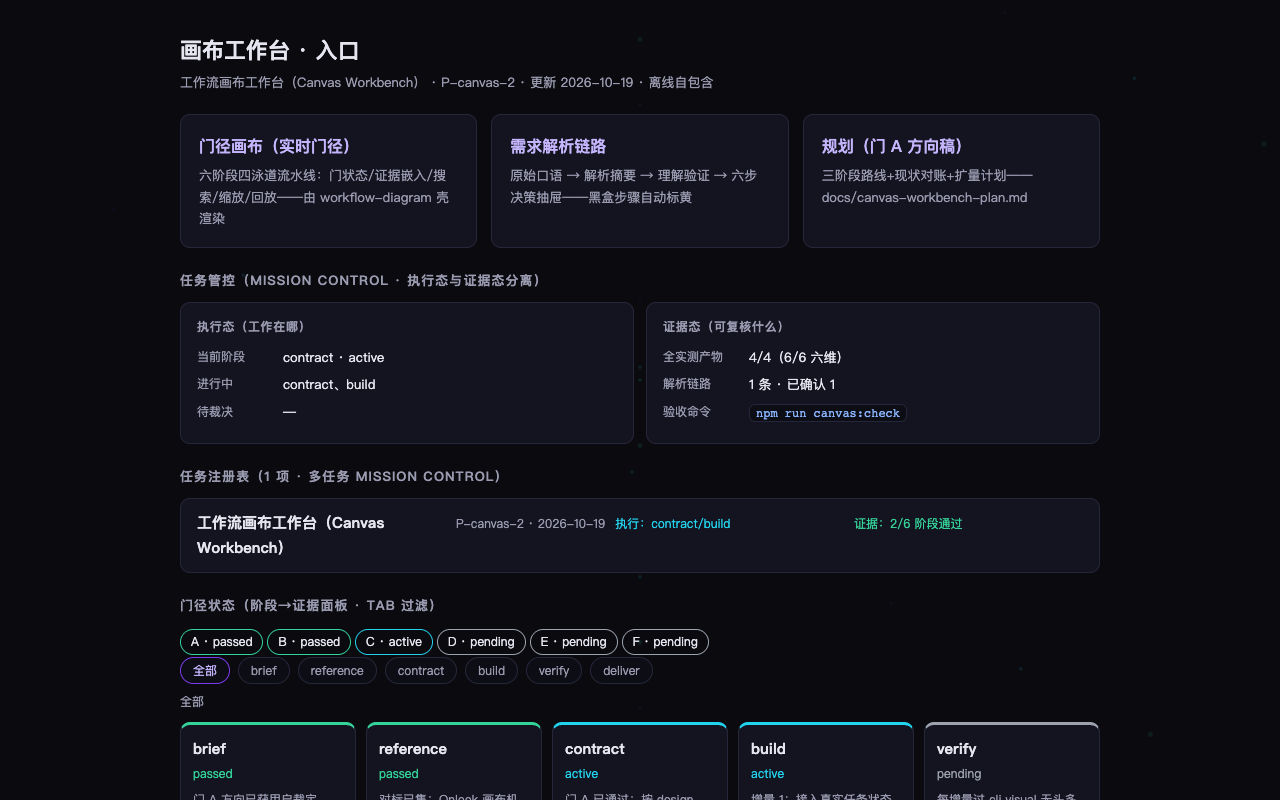
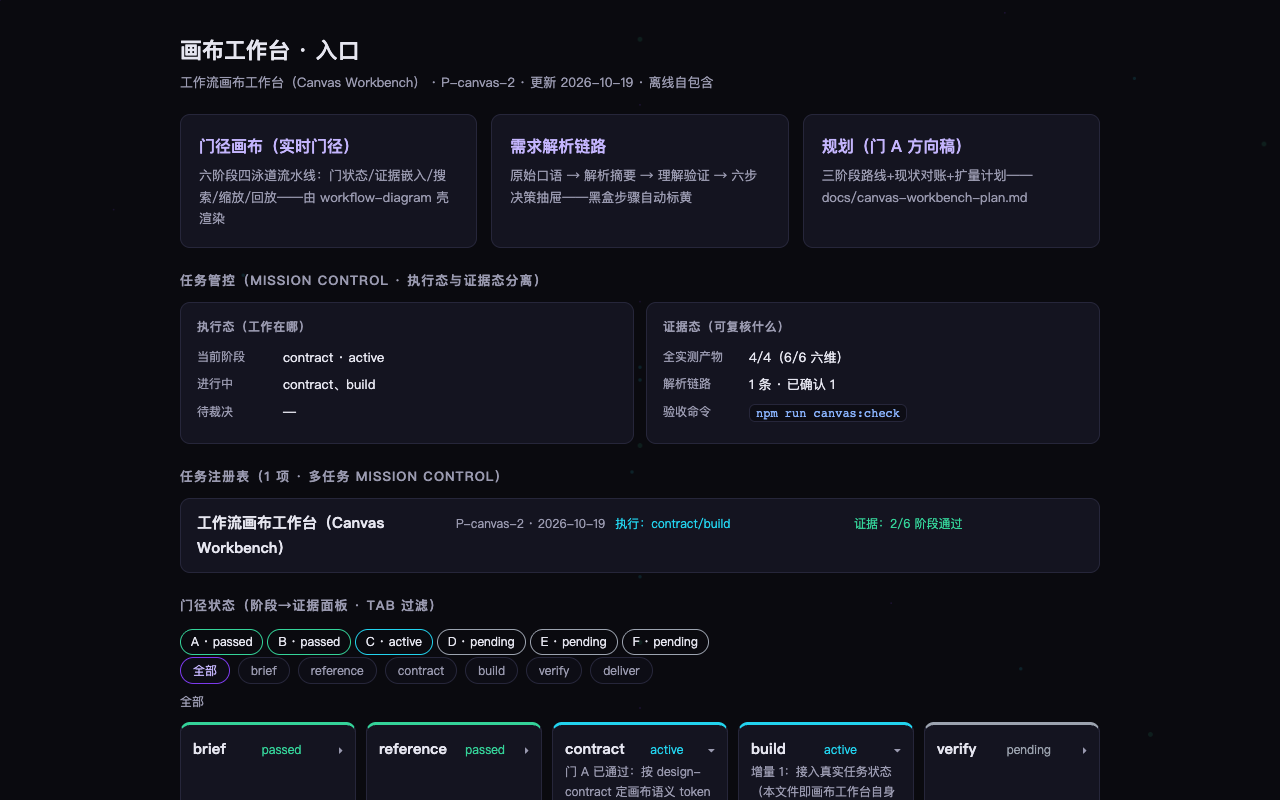
feat(canvas): 增量 73——门径阶段卡抽屉化（details 原生键盘可达，active 默认展开）+ 学循环 101 B 站需求信号 sweep·第八次（百万级原型需求+skill 生态进 B 站词表）
- 学循环 101（bilibili 搜索页一手实看，隔 12 天）：'灵光 AI 一键生成交互
  页面' 171.7 万播放（同题两版重发）=百万级原型需求体量；'UI UX Pro Max
  Skill'（1.9 万播放）进 B 站标题=skill 生态大众化（97 轮 trending 侧
  hallmark/impeccable 跨平台互证）；检索词与供给错位如实记录——按痛点
  检索返回能力宣传，痛点诉说沉淀在评论区层不可采样（下次 sweep 校准
  入口：评论区/弹幕或'翻车'词系）；第四层连续 31 轮无存活对标者
- 增量 73：div.stage→details.stage 抽屉化（evidence/notes 收进抽屉，
  active 阶段默认展开；summary flex 重排+▸ 旋转指示；native details=
  键盘可达零 JS 成本，与产物墙 .art 模式统一）
- DOM 四态实测：active 默认开/点 toggle/Tab+Enter 键盘展开/过滤与抽屉
  共存；键盘断言如实更新 25/28→30/34（+6 summary）
- evals +2（bilibili-painpoint-comment-layer/
  skill-ecosystem-mass-market-terminology）语料 222→224；口径五处同笔
  （goal/eval-report/paper/提交文档第十二次/quality-monitor）
- KPI4 第三十三条：门径抽屉（证据收纳+原生键盘可达）vs B 站'一键生成'
  内容（能力宣传无验收口径），us 6/6 vs them 1/1
- 三连全绿：ci/verify 0 错/test 133/133；canvas:check 4 页全绿；
  wall-reconcile 8/8（canvas-index 键盘 30/34 同笔确认）

diff --git a/showcase/products/public/canvas/canvas-index.html b/showcase/products/public/canvas/canvas-index.html
@@ -20,8 +20,12 @@
   .pill { display:inline-block; border:1px solid var(--line); border-radius:99px; padding:2px 10px; font-size:12px; margin:2px 4px 2px 0; }
   .stages { display:grid; grid-template-columns:repeat(auto-fit,minmax(150px,1fr)); gap:10px; margin-bottom:22px; }
   .stage { background:var(--panel); border:1px solid var(--line); border-top:3px solid var(--c); border-radius:10px; padding:12px; }
+  .stage summary { cursor:pointer; display:flex; justify-content:space-between; align-items:baseline; gap:8px; list-style:none; }
+  .stage summary::-webkit-details-marker { display:none; }
+  .stage summary::after { content:"▸"; color:var(--dim); font-size:11px; transition:transform .15s ease; }
+  .stage[open] summary::after { transform:rotate(90deg); }
   .sid { font-weight:600; }
-  .sst { font-size:12px; margin:2px 0 6px; }
+  .sst { font-size:12px; }
   .snote { color:var(--dim); font-size:12px; }
   .sev { color:var(--dim); font-size:11.5px; margin-top:6px; padding-top:6px; border-top:1px dashed var(--line); overflow-wrap:anywhere; }
   h2.sec { font-size:13px; text-transform:uppercase; letter-spacing:.08em; color:var(--dim); margin:22px 0 10px; }
@@ -180,42 +184,36 @@
     <span class="snote" id="stage-mode">全部</span>
   </div>
   <p class="snote" id="stage-empty" hidden>该阶段无卡片（过滤结果为空）</p>
-  <div class="stages"><div class="stage" style="--c:#34d399" data-stage="brief">
-        <div class="sid">brief</div>
-        <div class="sst" style="color:#34d399">passed</div>
+  <div class="stages"><details class="stage" style="--c:#34d399" data-stage="brief">
+        <summary><span class="sid">brief</span><span class="sst" style="color:#34d399">passed</span></summary>
         <div class="snote">门 A 方向已获用户裁定（2026-10-19）：工作台形态升级+艺术画面明示要求+能力地平线四序列；阶段 4 新增</div>
         <div class="sev">docs/canvas-workbench-plan.md + docs/identity-and-direction.md（工作台形态与能力地平线节）</div>
-      </div>
-<div class="stage" style="--c:#34d399" data-stage="reference">
-        <div class="sid">reference</div>
-        <div class="sst" style="color:#34d399">passed</div>
+      </details>
+<details class="stage" style="--c:#34d399" data-stage="reference">
+        <summary><span class="sid">reference</span><span class="sst" style="color:#34d399">passed</span></summary>
         <div class="snote">对标已集：Onlook 画布机制/bolt 设计系统专题/v0 Agentic+设计系统（学习循环 20-26 轮），第四层定位论证完成</div>
         <div class="sev">docs/competitive-insights/2026-10-11-onlook/insight.md</div>
-      </div>
-<div class="stage" style="--c:#22d3ee" data-stage="contract">
-        <div class="sid">contract</div>
-        <div class="sst" style="color:#22d3ee">active</div>
+      </details>
+<details class="stage" style="--c:#22d3ee" data-stage="contract" open>
+        <summary><span class="sid">contract</span><span class="sst" style="color:#22d3ee">active</span></summary>
         <div class="snote">门 A 已通过：按 design-contract 定画布语义 token 与动效参数（阶段 4 艺术画面升级的契约层）</div>
         
-      </div>
-<div class="stage" style="--c:#22d3ee" data-stage="build">
-        <div class="sid">build</div>
-        <div class="sst" style="color:#22d3ee">active</div>
+      </details>
+<details class="stage" style="--c:#22d3ee" data-stage="build" open>
+        <summary><span class="sid">build</span><span class="sst" style="color:#22d3ee">active</span></summary>
         <div class="snote">增量 1：接入真实任务状态（本文件即画布工作台自身的第一份活数据——吃狗粮）</div>
         <div class="sev">scripts/workflow-diagram/（复用既有画布壳：自包含 HTML/相机/证据嵌入/visual 验收）</div>
-      </div>
-<div class="stage" style="--c:#9ca3af" data-stage="verify">
-        <div class="sid">verify</div>
-        <div class="sst" style="color:#9ca3af">pending</div>
+      </details>
+<details class="stage" style="--c:#9ca3af" data-stage="verify">
+        <summary><span class="sid">verify</span><span class="sst" style="color:#9ca3af">pending</span></summary>
         <div class="snote">每增量过 cli visual 无头多视口回执 + 六维验收</div>
         
-      </div>
-<div class="stage" style="--c:#9ca3af" data-stage="deliver">
-        <div class="sid">deliver</div>
-        <div class="sst" style="color:#9ca3af">pending</div>
+      </details>
+<details class="stage" style="--c:#9ca3af" data-stage="deliver">
+        <summary><span class="sid">deliver</span><span class="sst" style="color:#9ca3af">pending</span></summary>
         <div class="snote">产物入画布产物墙，与对标产物六维并排（KPI4）</div>
         
-      </div></div>
+      </details></div>
   <h2 class="sec">解析链路（1 条）</h2><a class="chain-row" href="chain-canvas-workbench.html">
         <span class="badge" aria-label="解析链路确认状态：用户已比对确认">✓ 已确认</span>
         <span class="t">工作流画布工作台</span>
@@ -392,8 +390,8 @@
         <span class="snote" id="audit-mode">全部</span>
       </div>
       <p class="snote" id="audit-empty" hidden>该域无发现（过滤结果为空）</p>
-       <div class="audit-rows"><div class="audit-row" data-domain="knowledge"><span class="badge" aria-label="发现 kb-integrity 判定 已确认">✓ confirmed</span><span class="audit-id">kb-integrity</span><span class="audit-ev">docs/knowledge-base/index.json: 12 cards, layers={&quot;composition&quot;:4,&quot;motion&quot;:4,&quot;order&quot;:4}</span></div><div class="audit-row" data-domain="registry"><span class="badge" aria-label="发现 caps-integrity 判定 已确认">✓ confirmed</span><span class="audit-id">caps-integrity</span><span class="audit-ev">canvas/capabilities.json: 11 entries, statuses valid=true</span></div><div class="audit-row" data-domain="evidence"><span class="badge" aria-label="发现 regressions-append-only 判定 已确认">✓ confirmed</span><span class="audit-id">regressions-append-only</span><span class="audit-ev">canvas/regressions.json: 6 entries, all carry id/date/lesson=true</span></div><div class="audit-row" data-domain="video"><span class="badge" aria-label="发现 sfx-hero 判定 已确认">✓ confirmed</span><span class="audit-id">sfx-hero</span><span class="audit-ev">scripts/sfx-check.mjs: 36 items, issues=[]</span></div><div class="audit-row" data-domain="video"><span class="badge" aria-label="发现 sfx-60 判定 已确认">✓ confirmed</span><span class="audit-id">sfx-60</span><span class="audit-ev">scripts/sfx-check.mjs: 18 items, issues=[]</span></div><div class="audit-row" data-domain="video"><span class="badge" aria-label="发现 timeline-60 判定 已确认">✓ confirmed</span><span class="audit-id">timeline-60</span><span class="audit-ev">scripts/timeline-check.mjs: 10 items, issues=[]</span></div><div class="audit-row" data-domain="evidence"><span class="badge" aria-label="发现 regressions-history 判定 已确认">✓ confirmed</span><span class="audit-id">regressions-history</span><span class="audit-ev">git 全历史逐版本 id 集合对比（独立于当前形态检查的证据路径）: 4 versions / 6 entries</span></div><div class="audit-row" data-domain="docs"><span class="badge" aria-label="发现 submission-numbers 判定 已确认">✓ confirmed</span><span class="audit-id">submission-numbers</span><span class="audit-ev">数字对账通过：语料 220 / 知识卡 12 / 能力 11(4+6+1) / 产物 4 / 反例 6</span></div></div>
-       <p class="wall-legend">报告头：66e38a2 · 工作区有未提交改动（如实记录） · 生成于 2026-10-26T00:03:12</p>
+       <div class="audit-rows"><div class="audit-row" data-domain="knowledge"><span class="badge" aria-label="发现 kb-integrity 判定 已确认">✓ confirmed</span><span class="audit-id">kb-integrity</span><span class="audit-ev">docs/knowledge-base/index.json: 12 cards, layers={&quot;composition&quot;:4,&quot;motion&quot;:4,&quot;order&quot;:4}</span></div><div class="audit-row" data-domain="registry"><span class="badge" aria-label="发现 caps-integrity 判定 已确认">✓ confirmed</span><span class="audit-id">caps-integrity</span><span class="audit-ev">canvas/capabilities.json: 11 entries, statuses valid=true</span></div><div class="audit-row" data-domain="evidence"><span class="badge" aria-label="发现 regressions-append-only 判定 已确认">✓ confirmed</span><span class="audit-id">regressions-append-only</span><span class="audit-ev">canvas/regressions.json: 6 entries, all carry id/date/lesson=true</span></div><div class="audit-row" data-domain="video"><span class="badge" aria-label="发现 sfx-hero 判定 已确认">✓ confirmed</span><span class="audit-id">sfx-hero</span><span class="audit-ev">scripts/sfx-check.mjs: 36 items, issues=[]</span></div><div class="audit-row" data-domain="video"><span class="badge" aria-label="发现 sfx-60 判定 已确认">✓ confirmed</span><span class="audit-id">sfx-60</span><span class="audit-ev">scripts/sfx-check.mjs: 18 items, issues=[]</span></div><div class="audit-row" data-domain="video"><span class="badge" aria-label="发现 timeline-60 判定 已确认">✓ confirmed</span><span class="audit-id">timeline-60</span><span class="audit-ev">scripts/timeline-check.mjs: 10 items, issues=[]</span></div><div class="audit-row" data-domain="evidence"><span class="badge" aria-label="发现 regressions-history 判定 已确认">✓ confirmed</span><span class="audit-id">regressions-history</span><span class="audit-ev">git 全历史逐版本 id 集合对比（独立于当前形态检查的证据路径）: 4 versions / 6 entries</span></div><div class="audit-row" data-domain="docs"><span class="badge" aria-label="发现 submission-numbers 判定 已确认">✓ confirmed</span><span class="audit-id">submission-numbers</span><span class="audit-ev">数字对账通过：语料 222 / 知识卡 12 / 能力 11(4+6+1) / 产物 4 / 反例 6</span></div></div>
+       <p class="wall-legend">报告头：bd04e06 · 工作区有未提交改动（如实记录） · 生成于 2026-10-26T03:02:56</p>
   <h2 class="sec">对抗验证回执（独立引擎证伪 · <span class="badge" aria-label="对抗仪器两台，本地运行">axe-core ×2</span>）</h2>
      <p class="cap-intro">axe-core 独立引擎试图证伪自有断言（color-contrast 单规则 / WCAG A/AA 全规则，serious+critical 门）；负自测先于真实扫描（引擎静默即测试无效）。回执落 output/adversarial-*.json；本地仪器不入 CI 路线。</p>
      <div class="audit-rows"><div class="audit-row"><span class="badge" aria-label="对抗回执 adversarial-contrast 终态 完整">complete ✓</span><span class="audit-id">adversarial-contrast</span><span class="audit-ev">独立引擎证伪失败：axe 在 4 页扫过 500 个文本节点，0 个 color-contrast 违例（另有 35 个 axe 无法判定节点如实记录）——自有断言经受住对抗重测</span></div><div class="audit-row"><span class="badge" aria-label="对抗回执 adversarial-a11y 终态 完整">complete ✓</span><span class="audit-id">adversarial-a11y</span><span class="audit-ev">独立引擎 WCAG A/AA 证伪失败：4 页 0 个 serious/critical 违例（0 条 moderate 以下提示如实记录，86 个 axe 无法判定节点）</span></div></div>

diff --git a/docs/learn-loop.md b/docs/learn-loop.md
@@ -30,7 +30,7 @@
 
 v0.dev（Vercel）｜ bolt.new ｜ Lovable ｜ GitHub Copilot（原独立产品 Workspace 已被吸收为桌面端统一工作区，92 轮实测原 URL 404）｜ Figma Make ｜ ~~Motiff~~（全线关服，90 轮实测：导出窗口至 10-31）｜ 即时设计 AI ｜ B站 AI 编程吐槽向视频（需求信号）｜ YouTube 评测视频 ｜ GitHub awesome-*/trending（需求聚类）｜ cloudflare/security-audit-skill（审计 skill 新信号，89 轮深访）
 
-第一 sweep 9 项已于 2026-10-07~08 完成首轮检视（v0/bolt/Lovable/Copilot/Figma Make/Motiff/GitHub trending/B 站信号/即时设计）。第二 sweep 候选（2026-10-08 第九轮追加）：Pixso ｜ MasterGo ｜ goflygen（B 站推广出现的国产 Agent 全栈框架，痛点真实方案存疑）｜ claude-mem 型跨会话记忆信号 ｜ Figma Make 季度更新复检。**进度：第二 sweep 5/5 已于 2026-10-09 全部收官**（Pixso/MasterGo/GoFlyGen/Figma Make 复检/claude-mem 深检；合计两 sweep 14 项）。国产三强格局图已收官（即时设计=插件型 AI/Pixso=生成前置型/MasterGo=Agent 代跑型，三卡互链）。**10-10 起转入自由轮换模式**：第一检=Base44（2026-10-10，即兴立题；西方分层图谱补全：v0 前端生成/Lovable 全栈生成/Base44 全栈预装+增长（Wix 旗下）/**kit 门控工作流=第四层验证纪律层**，前三层均未覆盖）；第二检=GitHub trending 三日增量复访（2026-10-10，新面孔 context-mode——上下文预算家族第五收敛者；复访粒度=3 天增量合适）；第三检=Onlook（2026-10-11，UI 专项锚定后首个对标：开源可视化编辑器，版本回滚收敛×4 + 品牌提取候选 + AGENTS.md 约定再收敛 + "agent 推荐榜"渠道叙事）；第四检=妙多关服公告页补拍复检（2026-10-11，首检 K3 降级修复：官方时间线实拍——05-13 通知→07-31 停服→11-01 数据永久删除，生存位立卡落地入 identity）；第五检=v0 复检（2026-10-11，9 天增量盯层间渗透：Agentic by default 上首屏+设计系统家族收敛×4+ChatGPT 计划互通，第四层仍无人占据）；第六检=bolt.new 复检（2026-10-11，"98% less errors—automatically tests"上首屏=第四层外围首次被触碰但为黑盒形态，立 D14；设计系统专题区确认家族×4）；第七检=B 站痛点新 sweep（2026-10-13，距上轮 5 天：「测试全绿=产品能用？」与五级证据逐字同构立 D15、自欺焦虑立 D16、D8 小白印证）；**Lovable 列待检池**（lovable.dev Cloudflare 人机验证 IAB 不过，2026-10-11 实测）——已清账（2026-10-21 第四次复试通过：检查子层 automatic scans + audit logs 再触碰仍黑盒，规模信任锚 60M 项目不跟，代码所有权叙事与 local-first 同阵营）；Google Stitch 列待检池（IAB 不走代理不可直达 Google 服务，2026-10-11 实测）；**学习循环降频为隔日粒度**（连续高强度后消化优先），存量复检（Figma Make 下次 2026-11）+ 新信号即兴接入（EigenFlux 网络信号可实时供料），无学习对象时轮次可转投 evals 语料/技能完善等"其余任务"；幸存者普查三弹（2026-10-23~24，90/91/94/95 轮）：Motiff 全线关服除名，即时设计/Pixso/MasterGo 三强复检存活——反锁定行为跨品牌收敛（互操作+历史版本/离线/私有化，MasterGo 另开放 MCP 双向写回=把 AI 编码工具变成分发入口），design.md 生成输入格式=design-as-contract 行业收敛信号，MasterGo=蓝湖系与幽澜妙多实体消歧钉死（95 轮页脚证据）；妙多实体闭环（96 轮一手验证）：miaoduo.com=已关停妙多本体（横幅逐字命中官方时间线+页脚 ICP 北京看云软件有限公司），"仍在投放"实为营销页定格第三例，MCP 通路生死对照（死者主张与 MasterGo 现役同款=通路不死产品死）。trending 复访第四次（97 轮，93 轮预注册复测点）：security-audit-skill #10/日增 +2874 全场最高="持续在位"第三次复测成立（排名与星速分开读）；上游本尊 impeccable 87.5k 爆款=选型确认+22 天漂移实测（checkedOn 刷新与 re-vendor 分离：前者新鲜度维护、后者待批次裁决）。v0 复检第三次（98 轮，隔 14 天）：标题实拍"Build Full-Stack Web Apps with AI"=定位扩张完成时点，模板市场占首屏主体（like 热度分发 vs 证据分发分野），第四层连续 28 轮无对标者。bolt.new 复检第三次（99 轮，隔 14 天）：D14 'automatically tests' 原句存续 14 天仍无口径（免验证营销=稳态非疏忽），Agent 按订阅分档（Standard/Max 自报矩阵）=agent 能力成为可定价物，第四层连续 29 轮无对标者。Onlook 复检第四次（100 轮，隔 6 天）：主标语实拍 'free, local-first editor'=local-first 升格为竞品定位词——生存位判断三段证据链闭环（90 轮死亡案例推出→幸存者收敛→竞品定位采纳）。进度：第二 sweep 已检 2/5（Pixso 10-08、MasterGo 10-09，国产三强格局图补完：即时设计=插件型 AI/Pixso=生成前置型/MasterGo=Agent 代跑型，三卡互链）。
+第一 sweep 9 项已于 2026-10-07~08 完成首轮检视（v0/bolt/Lovable/Copilot/Figma Make/Motiff/GitHub trending/B 站信号/即时设计）。第二 sweep 候选（2026-10-08 第九轮追加）：Pixso ｜ MasterGo ｜ goflygen（B 站推广出现的国产 Agent 全栈框架，痛点真实方案存疑）｜ claude-mem 型跨会话记忆信号 ｜ Figma Make 季度更新复检。**进度：第二 sweep 5/5 已于 2026-10-09 全部收官**（Pixso/MasterGo/GoFlyGen/Figma Make 复检/claude-mem 深检；合计两 sweep 14 项）。国产三强格局图已收官（即时设计=插件型 AI/Pixso=生成前置型/MasterGo=Agent 代跑型，三卡互链）。**10-10 起转入自由轮换模式**：第一检=Base44（2026-10-10，即兴立题；西方分层图谱补全：v0 前端生成/Lovable 全栈生成/Base44 全栈预装+增长（Wix 旗下）/**kit 门控工作流=第四层验证纪律层**，前三层均未覆盖）；第二检=GitHub trending 三日增量复访（2026-10-10，新面孔 context-mode——上下文预算家族第五收敛者；复访粒度=3 天增量合适）；第三检=Onlook（2026-10-11，UI 专项锚定后首个对标：开源可视化编辑器，版本回滚收敛×4 + 品牌提取候选 + AGENTS.md 约定再收敛 + "agent 推荐榜"渠道叙事）；第四检=妙多关服公告页补拍复检（2026-10-11，首检 K3 降级修复：官方时间线实拍——05-13 通知→07-31 停服→11-01 数据永久删除，生存位立卡落地入 identity）；第五检=v0 复检（2026-10-11，9 天增量盯层间渗透：Agentic by default 上首屏+设计系统家族收敛×4+ChatGPT 计划互通，第四层仍无人占据）；第六检=bolt.new 复检（2026-10-11，"98% less errors—automatically tests"上首屏=第四层外围首次被触碰但为黑盒形态，立 D14；设计系统专题区确认家族×4）；第七检=B 站痛点新 sweep（2026-10-13，距上轮 5 天：「测试全绿=产品能用？」与五级证据逐字同构立 D15、自欺焦虑立 D16、D8 小白印证）；**Lovable 列待检池**（lovable.dev Cloudflare 人机验证 IAB 不过，2026-10-11 实测）——已清账（2026-10-21 第四次复试通过：检查子层 automatic scans + audit logs 再触碰仍黑盒，规模信任锚 60M 项目不跟，代码所有权叙事与 local-first 同阵营）；Google Stitch 列待检池（IAB 不走代理不可直达 Google 服务，2026-10-11 实测）；**学习循环降频为隔日粒度**（连续高强度后消化优先），存量复检（Figma Make 下次 2026-11）+ 新信号即兴接入（EigenFlux 网络信号可实时供料），无学习对象时轮次可转投 evals 语料/技能完善等"其余任务"；幸存者普查三弹（2026-10-23~24，90/91/94/95 轮）：Motiff 全线关服除名，即时设计/Pixso/MasterGo 三强复检存活——反锁定行为跨品牌收敛（互操作+历史版本/离线/私有化，MasterGo 另开放 MCP 双向写回=把 AI 编码工具变成分发入口），design.md 生成输入格式=design-as-contract 行业收敛信号，MasterGo=蓝湖系与幽澜妙多实体消歧钉死（95 轮页脚证据）；妙多实体闭环（96 轮一手验证）：miaoduo.com=已关停妙多本体（横幅逐字命中官方时间线+页脚 ICP 北京看云软件有限公司），"仍在投放"实为营销页定格第三例，MCP 通路生死对照（死者主张与 MasterGo 现役同款=通路不死产品死）。trending 复访第四次（97 轮，93 轮预注册复测点）：security-audit-skill #10/日增 +2874 全场最高="持续在位"第三次复测成立（排名与星速分开读）；上游本尊 impeccable 87.5k 爆款=选型确认+22 天漂移实测（checkedOn 刷新与 re-vendor 分离：前者新鲜度维护、后者待批次裁决）。v0 复检第三次（98 轮，隔 14 天）：标题实拍"Build Full-Stack Web Apps with AI"=定位扩张完成时点，模板市场占首屏主体（like 热度分发 vs 证据分发分野），第四层连续 28 轮无对标者。bolt.new 复检第三次（99 轮，隔 14 天）：D14 'automatically tests' 原句存续 14 天仍无口径（免验证营销=稳态非疏忽），Agent 按订阅分档（Standard/Max 自报矩阵）=agent 能力成为可定价物，第四层连续 29 轮无对标者。Onlook 复检第四次（100 轮，隔 6 天）：主标语实拍 'free, local-first editor'=local-first 升格为竞品定位词——生存位判断三段证据链闭环（90 轮死亡案例推出→幸存者收敛→竞品定位采纳）。B 站 sweep 第八次（101 轮，隔 12 天）：171.7 万播放'一键生成原型'=百万级需求体量，'UI UX Pro Max Skill'进 B 站标题=skill 生态大众化（97 轮 trending 侧跨平台互证）；检索词与供给错位如实记录（痛点诉说在评论区层，下次 sweep 校准入口）。进度：第二 sweep 已检 2/5（Pixso 10-08、MasterGo 10-09，国产三强格局图补完：即时设计=插件型 AI/Pixso=生成前置型/MasterGo=Agent 代跑型，三卡互链）。
 
 ## 版本记录
 

diff --git a/docs/iteration-log.md b/docs/iteration-log.md
@@ -5,6 +5,7 @@
 
 | 日期 | 类型 | 做了什么 | 分数 / 证据 | 下一步 |
 | --- | --- | --- | --- | --- |
+| 2026-10-25 | 增量 73（门径阶段卡抽屉化）+ 学习循环·第一百零一轮（B 站需求信号 sweep·第八次——百万级原型需求+skill 生态进 B 站词表） | **学循环 101 轮（bilibili 搜索页一手实看，隔 12 天；关键词"AI生成页面 痛点"按发布时间）**：①**百万级"一键生成原型"需求体量**——"灵光 AI 一键生成交互页面"171.7 万播放（同题两版重发=流量验证）；②**skill 生态进入 B 站教程词表**——"UI UX Pro Max Skill"（1.9 万播放），与 97 轮 trending hallmark/impeccable 品类垂直化跨平台互证；③**检索词与供给错位（诚实记录）**——按痛点检索返回的是能力宣传（一键/零成本/保姆级），痛点诉说沉淀在评论区（不可采样）——下次 sweep 校准入口（评论区/弹幕层或"翻车"词系）；④第四层连续 31 轮无存活对标者；判读：需求侧痛点不在"能不能生成"而在生成之后（评论区层），kit 验收/证据面正对评论区痛点，标题层流量与 kit 无争。**增量 73**：门径阶段卡抽屉化——div.stage→details.stage（evidence/notes 收进抽屉，active 阶段默认展开；summary flex 重排+▸ 旋转指示；native details=键盘可达零 JS 成本，与产物墙 .art 模式统一）；DOM 实测（active 默认开/点 toggle/Tab+Enter 展开/过滤与抽屉共存）；键盘断言如实更新 25/28→30/34（+6 summary）。**KPI4 第三十三条**：门径抽屉（证据收纳+原生键盘可达）vs B 站"一键生成"内容（能力宣传无验收口径）——us 6/6 vs them 1/1。开发：evals +2（bilibili-painpoint-comment-layer/skill-ecosystem-mass-market-terminology）语料 222→224+口径五处同笔（提交文档第十二次） | 抽屉四态实测过；check 4 页全绿（kb 30/34）；reconcile 8/8；verify 0 错；test 133/133 | 增量 74 候选=re-vendor impeccable 批次（**待用户裁决**）或 Figma Make 季度复检（2026-11 窗口，临近）；学习候选=Figma Make 或 B 站评论区层校准 sweep |
 | 2026-10-25 | 增量 72（工作台状态持久化：localStorage）+ 学习循环·第一百轮（Onlook 复检·第四次——local-first 升格为定位词） | **学循环 100 轮（onlook.com 首屏一手实看，隔 6 天）**：①**local-first 升格为定位词（最大信号）**——主标语实拍"free, local-first editor where designers craft exceptional experiences in code"（69 轮时的开源旧版定位已升格）；**生存位判断三段证据链闭环**：90 轮从 Motiff 死亡推出（云端锁定是死穴）→ 91/94/95 幸存者收敛（互操作/历史版本/私有化）→ 本轮竞品把 local-first 写进 H1；②角色品类创建"Visual Engineers"（不抄：品类创建是融资叙事工具，kit 无融资诉求，受众来自问卷实录）；③27k stars 庆祝横幅+MEMBERS ONLY 会员文案（开源引流+托管收费路线存续）；④第四层连续 30 轮无存活对标者。**增量 72**：工作台状态持久化——stage/audit/wall 三处 tab 选择存 localStorage（单键 uak-workbench-state），读写全 try/catch 降级（file:// 或隐私模式下存储不可用=环境事实，降级为会话内状态不假装成功），载入 wsRestore() 恢复；**端到端实测**：点选→写入 {"stage":"build","audit":"video"}→reload→过滤恢复+徽标文本正确→点 all 写回默认；零新焦点元素（键盘 25/28 不动）。**KPI4 第三十二条**：工作台状态持久化（选择留用户机器+重载恢复实测）vs Onlook local-first 定位词——us 6/6 vs them 1/1（定位词可读 1；其机制公开验收口径不可观测记 null）。开发：evals +2（local-first-as-positioning-word/workspace-state-user-machine-persistence）语料 220→222+口径五处同笔（提交文档第十一次） | 持久化写/载/清四态实测过；check 4 页全绿（kb 25/28 不动）；reconcile 8/8；verify 0 错；test 133/133 | 增量 73 候选=re-vendor impeccable 批次（**待用户裁决**）或门径证据面板抽屉化；学习候选=Figma Make 季度复检（2026-11 窗口，下轮临近） |
 | 2026-10-25 | 增量 71（审计区按域过滤）+ 学习循环·第九十九轮（bolt.new 复检·第三次——D14 黑盒主张存续 14 天 + Agent 分档） | **学循环 99 轮（bolt.new 首屏一手实看，隔 14 天）**：①**D14 黑盒主张原句存续**——"98% fewer errors / automatically tests"逐字仍在首屏，仍无方法学/回执样例/可复核口径（三缺失稳态=免验证营销是稳定策略非疏忽）；②**Agent 分档上线**——Standard（所有用户）/Max（Pro 专属）各配 Speed/Intelligence/Token cost 三维矩阵=agent 能力按订阅分层（可定价物），但矩阵全部厂商自报；模型路由明示为卖点（对监管层产品无冲突）；③设计系统专题存续（家族 ×4）、定位标题微扩（prototypes 进标题）、企业信任墙不跟；④第四层连续 29 轮无存活对标者（黑盒主张存续 14 天=口径缺失是稳态）。**增量 71**：审计 findings 按域过滤（全部+knowledge/registry/evidence/video/docs 五域 tab，复用 stageFilter 模式+空态接线；对抗行不带 data-domain 不入过滤）——8 项 findings 后检索成本出现的证据面延续；**顺手修上轮措辞双括号**（"（…为准）（output…）"）；DOM 级实测（video→3 项/对抗行不受影响/all 恢复 8）；键盘断言如实更新 19/22→25/28（+6 域钮）。**KPI4 第三十一条**：审计区按域过滤（机验发现可检索）vs bolt Agent 分档矩阵（自报能力分层）——us 6/6 vs them 1/1（矩阵可读 1；三维数值口径不可观测记 null）。开发：evals +2（d14-blackbox-claim-longevity/agent-tiering-self-reported-metrics）语料 218→220+口径五处同笔（提交文档第十次） | check 4 页全绿（kb 25/28、overflow/aria 全过、contrast 0 below）；reconcile 8/8；verify 0 错；test 133/133；域过滤 DOM 实测过 | 增量 72 候选=re-vendor impeccable 批次（**待用户裁决**）或产物墙 sort 状态持久化；学习候选=Figma Make 季度复检（2026-11 窗口）或 Onlook 三检（10-19+7 天） |
 | 2026-10-25 | 增量 70（门径 tab 化：阶段→证据面板，阶段 4 首候选落地）+ 学习循环·第九十八轮（v0 复检·第三次——定位扩张完成时点） | **学循环 98 轮（v0.dev 首屏一手实看，隔 14 天）**：①**定位扩张完成时点**——标题实拍"Build Full-Stack Web Apps with AI"（从文本生成 UI 到全栈应用的扩张已在标题层完成），ChatGPT 计划互通存续、导航新增 iOS/Students/Enterprise；②**模板市场=首屏主体**（community templates 带 like 数 14.7K/10K/7.5K，分类分发）——生成是产能、模板是获客留存面，**热度分发 vs 证据分发**是 KPI4 新对照面；③第四层连续 28 轮无存活对标者（like 数=热度证据非质量证据）；④判读：全栈化是生成工具共同退路，kit 的"工作流监管+证据"路线不与产能竞争（60 轮判读存续）。**增量 70**：`render-index.mjs` 门径区 tab 化——阶段过滤栏（全部+6 阶段，复用 wf-btn/aria-pressed 模式）+ **阶段 evidence 字段首次渲染**（state 里存了从未输出的死数据，增量 52 缺陷类随手清偿）+ stageFilter JS（空态显隐接线守 reg-003 类）；**首跑抓两真缺陷**：①模板串少闭合反引号（node --check 拦截）；②320px 溢出 4px=17 宽度守卫抓到 `.wall-filter` 无 flex-wrap（此前靠 shrink 硬压 5 钮，元素增多压穿）——**类级修复 wrap**（两条过滤栏同受益）+ `#stage-mode` 独占一行；DOM 级交互实测（点 build→1 卡+aria-pressed 切换+证据行浮出+all 恢复 6 卡）；键盘断言如实更新 12/15→19/22（+7 阶段钮）。**KPI4 第三十条**：门径 tab（证据面板一步可达）vs v0 模板市场（like 热度分发）——us 6/6 vs them 1/1。开发：evals +2（stage-evidence-dead-data-closure/flex-wrap-vs-shrink-overflow）语料 216→218+口径五处同笔（提交文档第九次） | check 4 页全绿（kb 19/22、overflow 全过、contrast 0 below）；reconcile 8/8；verify 0 错；test 133/133；tab 交互 DOM 实测过 | 增量 71 候选=re-vendor impeccable 批次（**待用户裁决**）或审计区 tab 化延伸；学习候选=Figma Make 季度复检（2026-11 窗口） |

diff --git a/docs/competitive-insights/2026-10-25-bilibili-sweep4/insight.md b/docs/competitive-insights/2026-10-25-bilibili-sweep4/insight.md
@@ -1,0 +1,28 @@
+# B 站需求信号 sweep·第五次（学习循环第一百零一轮）——百万级原型需求 + skill 生态进 B 站词表
+
+- 日期：2026-10-25 ｜ 点档：10（开发线）｜ 检视级别：**verified-partial**（bilibili 搜索页一手实看+截图；未逐视频深看内容）
+- 对象：bilibili 搜索（上次 sweep 10-13 第七检，隔 12 天；关键词"AI生成页面 痛点"按发布时间排序）
+- 截图：bili-search.png（本地留存，ADR-0002）
+
+## 机制观察
+
+1. **百万级"一键生成原型"需求体量**："零成本做产品原型！灵光 AI 一键生成交互页面"**171.7 万播放**（同题两版重发=流量验证，另一版 3.1 万）——原型生成是 B 站量级最大的 AI 需求话题之一，受众远超开发者圈（"零成本/新手"话术指向泛用户）。
+2. **skill 生态进入 B 站教程词表**："AI生成的页面也可以这么好看! **UI UX Pro Max Skill** !!"（1.9 万播放）——"Skill"作为产品词出现在 B 站标题（与 97 轮 trending 的 hallmark/impeccable 品类垂直化互证：**设计品质 skill 已有大众内容供给**）。
+3. **检索词与供给的错位（诚实记录）**：按"痛点"检索、按发布时间排序，返回的却是"一键生成/零成本/保姆级"能力宣传（bloxd.io、xQc 娱乐条目为噪音）——**痛点诉说内容在 B 站主视频层供给稀薄**，痛点表达沉淀在评论区（不可采样）。D15/D16（测试全绿=能用？/自欺焦虑）的痛点证据来源是评论区与弹幕，不是标题层。
+4. 工作流类内容在位：Coze 智能工作流教程（多语言详情页批量生成）——"工作流"作为效率词已被泛用户接受。
+
+## 判读
+
+1. **需求体量与 kit 定位的再确认**：百万级"一键生成"需求与 kit 的"AI 跑之前先对齐"定位互为反面（60 轮判读存续）——但新增一层：**需求侧的痛点不在"能不能生成"而在生成之后**（评论区层），kit 的验收/证据面正对着评论区痛点，标题层的流量与 kit 无争。
+2. skill 生态大众化：设计品质 skill 已有 B 站内容供给（1.9 万播放），说明"用 skill 提升设计品质"的用户认知正在形成——kit 的 23 技能资产在此认知成熟期是顺风的，但 kit 卖的是工作流监管不是单点 skill（立场不调整）。
+3. 检索方法校准：下次 B 站 sweep 应改用"评论区/弹幕层"入口（如热门视频评论区截图）或关键词换"翻车/翻车现场"（痛点诉说的高频词），标题层检索已证产出有限。
+
+## 不抄什么
+
+"零成本/保姆级/一键"话术（与门控定位相反）；同题重发的流量打法。
+
+## 借鉴→落地
+
+- K2：增量 73=门径阶段卡抽屉化（evidence 收进 details/summary——交互与产物墙 .art 模式统一，首屏降噪；native details=键盘可达零成本）。
+- KPI4 第三十三条：门径抽屉（证据收纳+键盘原生可达）vs B 站"一键生成"内容（能力宣传无验收口径）——us 6/6 vs them 1/1（标题可读 1；生成质量口径/评论区层不可观测记 null）。
+- evals +2：bilibili-painpoint-comment-layer / skill-ecosystem-mass-market-terminology。

diff --git a/docs/quality-monitor.md b/docs/quality-monitor.md
@@ -200,7 +200,7 @@ npm run prompt:build:lean  # 重建精简导出（契约/动效/验收/品味四
 
 | 指标 | 当前值 | 达标线 |
 | --- | --- | --- |
-| 评测场景数 | 222（doc-drift 测试锁口径，quality-monitor 本行已入守卫；95-100 轮各两条（100 轮=local-first-as-positioning-word/workspace-state-user-machine-persistence），画布场景累计 +149） | | | | | | | | | | ≥ 每环节 1 个，共 ≥ 9 | | | | | | | | | | | ≥ 每环节 1 个，共 ≥ 9 |
+| 评测场景数 | 224（doc-drift 测试锁口径，quality-monitor 本行已入守卫；95-101 轮各两条（101 轮=bilibili-painpoint-comment-layer/skill-ecosystem-mass-market-terminology），画布场景累计 +151） | | | | | | | | | | ≥ 每环节 1 个，共 ≥ 9 | | | | | | | | | | | ≥ 每环节 1 个，共 ≥ 9 |
 | verify 错误数 | 0 | 0 |
 | 测试通过数 | 124/124（doc-drift 守护：与 tests/*.test.mjs 静态 test() 计数一致，加测试须同笔更新本行；2026-10-24 增量 67 对比度负自测 +1 后由 122 更新，2026-10-25 增量 68 a11y 负自测 +1 后由 123 更新；全量含 showcase/tests 9 项=133，README/identity 口径）| 全过 |
 | 已装 skill 锁定率 | 20/23 锁定；未锁 3 = ui-design-agent、remotion-video-agent、promotion-playbook（三者本 kit 自有，无需 pin）；上游第三方 20/20 全锁定（含 anatomy 2026-10-16 钉版；2026-09-30 本地化后口径 25→22，10-16 anatomy 入册 22→23） | 上游第三方 skill 100% 锁定 |

diff --git a/docs/eval-report-2026-09.md b/docs/eval-report-2026-09.md
@@ -17,7 +17,7 @@
 
 | 指标 | 值 |
 | --- | --- |
-| 已真实执行场景 | **71/222（32%）**（口径：语料现 222（2026-10-25，96-100 轮各 +2）、已执行入账 71——原 97% 为 2026-09 时点 71/73 的历史口径，其后新增 42 条待轮转；未入账=vue-video-embed-delivery 用户裁决挂起 + change-radius-discipline 新入册待评（2026-10-09）+ 2026-10-18 KPI4 对比两条（comparison-null-honesty/dark-dense-table-muted-text）；含本批新增 10 条 + R061-01 两场景清偿 + R149-01 全部批次 + e3 族四条 + spatial 族三条 + blender 缺位声明）
+| 已真实执行场景 | **71/224（32%）**（口径：语料现 224（2026-10-25，96-101 轮各 +2）、已执行入账 71——原 97% 为 2026-09 时点 71/73 的历史口径，其后新增 42 条待轮转；未入账=vue-video-embed-delivery 用户裁决挂起 + change-radius-discipline 新入册待评（2026-10-09）+ 2026-10-18 KPI4 对比两条（comparison-null-honesty/dark-dense-table-muted-text）；含本批新增 10 条 + R061-01 两场景清偿 + R149-01 全部批次 + e3 族四条 + spatial 族三条 + blender 缺位声明）
 | 本批功能分（最近一次记录） | 10/10 场景 100 分 |
 | 本批样式分（8 维，7 个 UI 产物） | 6 个 100，1 个 88（`workflow-progress-visibility`：对比度实测与动效断言两项诚实缺测扣分） |
 | prototype-handover-four-states（2026-10-05 入账） | 100 分（--record 第 1 次），明细见 §4.1 第 71 行 |

diff --git a/paper/uak-paper.md b/paper/uak-paper.md
@@ -22,7 +22,7 @@ abstract: |
   records every decision the user still owes, with decay rules for stale items
   and batch adjudication. Behavior is pinned by a 60-scenario evaluation
   corpus at the release snapshot (72 scenarios, 18 executed as of
-  2026-09-23; 222 scenarios, 71 executed as of 2026-10-25); five scenarios had been executed over ten recorded rounds
+  2026-09-23; 224 scenarios, 71 executed as of 2026-10-25); five scenarios had been executed over ten recorded rounds
   under a
   deterministic 0--2 rubric with fail-zeroing, and a separate eight-dimension
   style review shows that a functionally perfect dashboard initially scored
@@ -388,7 +388,7 @@ built artifact, 63.8 kB gzipped.
 co-design loop that built the system, by a single human adjudicator; scenarios
 were authored with the system's behavior in view; and five executed scenarios
 is a small sample of the 60-scenario corpus (release snapshot; 72 scenarios,
-16 executed as of 2026-09-26; 222 scenarios, 71 executed as of 2026-10-25). We therefore present the rubric
+16 executed as of 2026-09-26; 224 scenarios, 71 executed as of 2026-10-25). We therefore present the rubric
 and the evidence trail — every score links to its screenshots, contrast logs,
 and regression records — as the primary artifact, and the scores as
 instruments of iteration, not as benchmark results.

diff --git a/docs/goal.md b/docs/goal.md
@@ -18,7 +18,7 @@
 
 现有基础：思维链已到 v7.2（Plan/Execute 双模式 + 六阶段思维内核 + 六道门
 （A-E 人工裁决 + F MCP 留痕）+ 细节级自我批评内环 + 门账本 + 任务分级），
-机械层校验齐备。缺口正是上面三条——评测场景（现 222 个，2026-10-25 口径：
+机械层校验齐备。缺口正是上面三条——评测场景（现 224 个，2026-10-25 口径：
 71 个已真实执行、其余待轮转跑分）demo 有验收
 记录但无重放规范，迭代冲刺机制已随本文档启动、月度巡检仍未建。
 
@@ -40,7 +40,7 @@
 
 把 `evals/scenarios.json` 从「静态行为规范」升级为「可执行评测」：
 
-- 新建 `scripts/eval-run.mjs`：按轮转从全部场景（建立时 29 个，现 222 个）
+- 新建 `scripts/eval-run.mjs`：按轮转从全部场景（建立时 29 个，现 224 个）
   真实执行（每轮冲刺 1-2 个），产出结构化结果（场景 id / 逐条 passCriteria
   判定 / 分数 / 证据路径）；
 - 评分口径：每条 passCriteria 0-2 分（0 未做 / 1 做了但不完整 / 2 有证据
